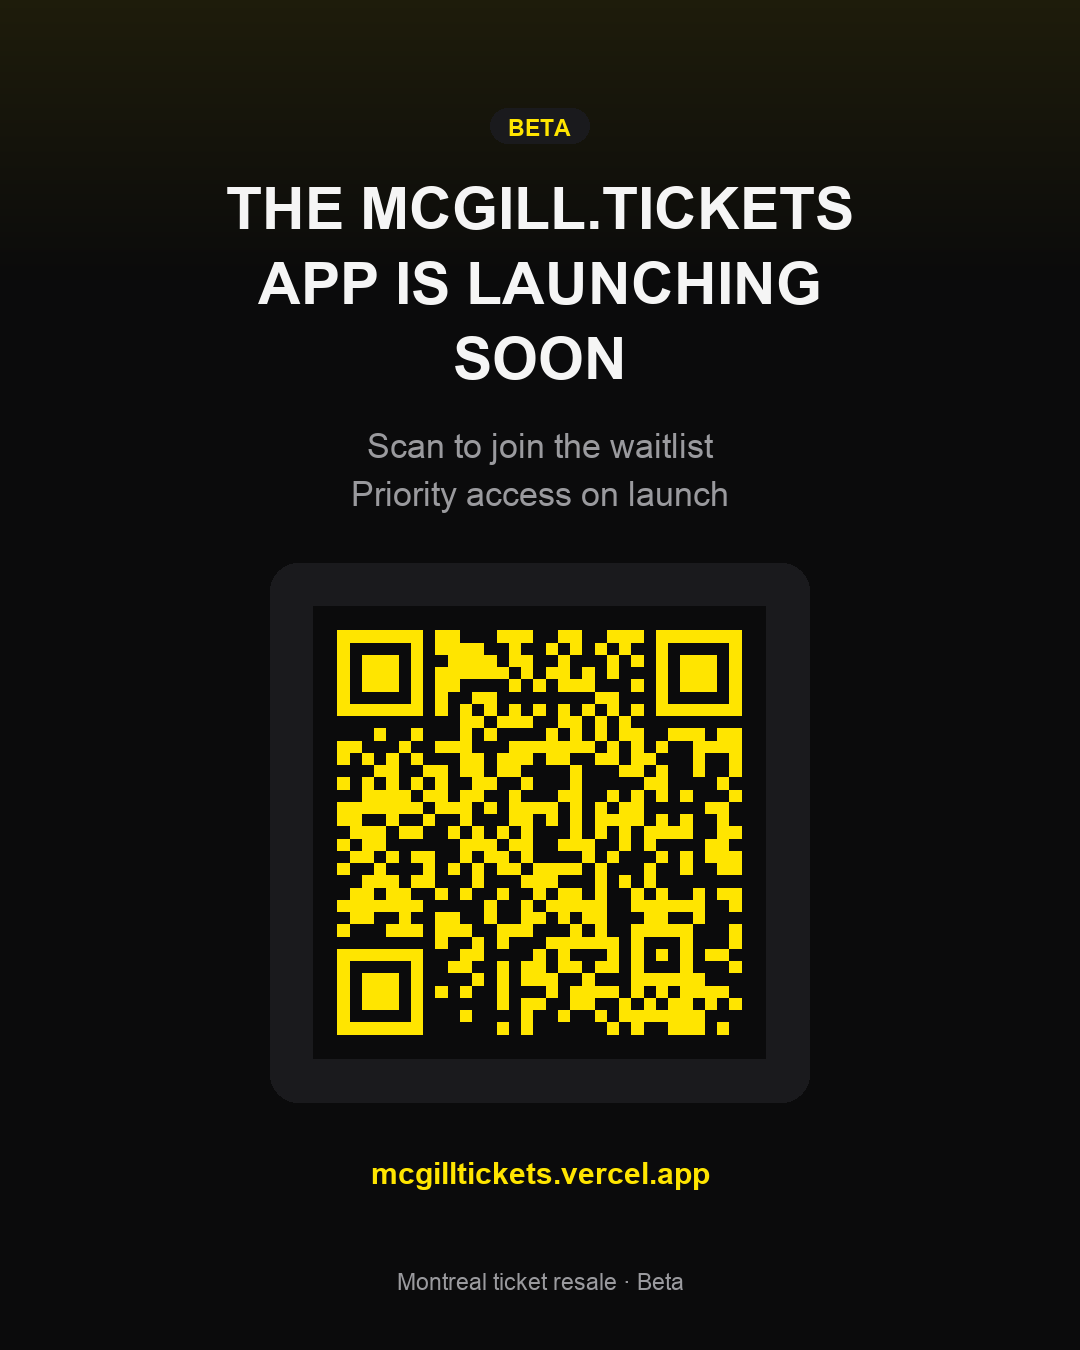
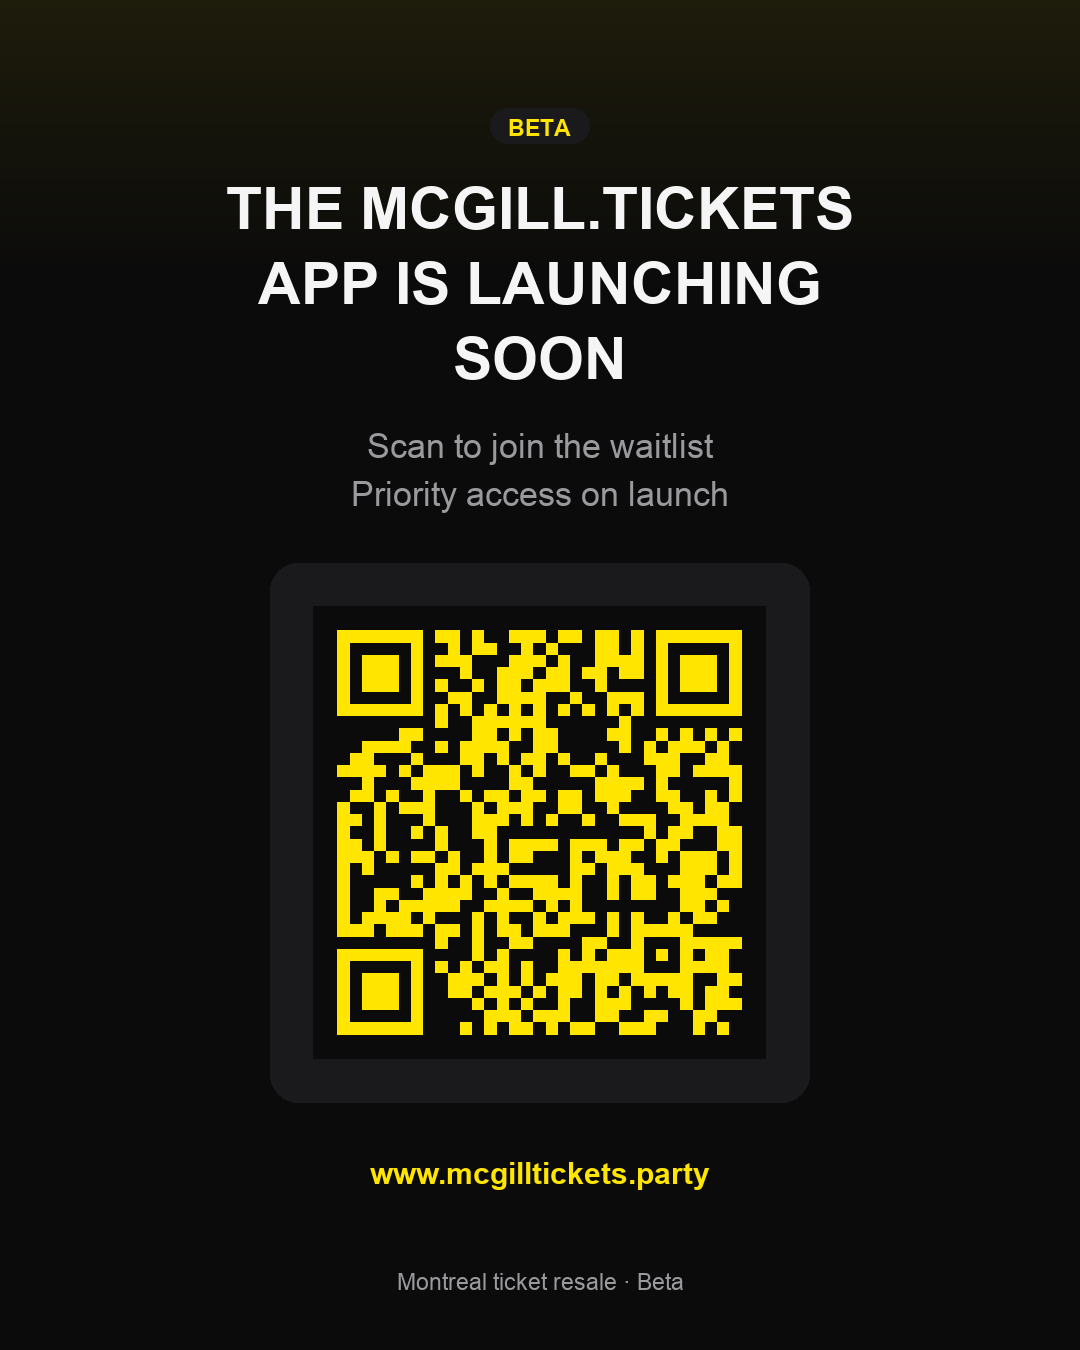
Point beta QR assets and display page at www.mcgilltickets.party.

Changed region(s): [[0.3056, 0.4667, 0.7028, 0.7778], [0.3361, 0.84, 0.6722, 0.9022]]

diff --git a/src/app/qr/page.tsx b/src/app/qr/page.tsx
@@ -42,7 +42,7 @@ export default function QrDisplayPage() {
       </div>
 
       <p className="relative mt-6 text-[14px] font-semibold text-[#ffe500]">
-        mcgilltickets.vercel.app
+        www.mcgilltickets.party
       </p>
       <p className="relative mt-8 text-[12px] text-muted">
         Download posters in <code className="text-ink/80">/qr/</code> — square, portrait, and story.
